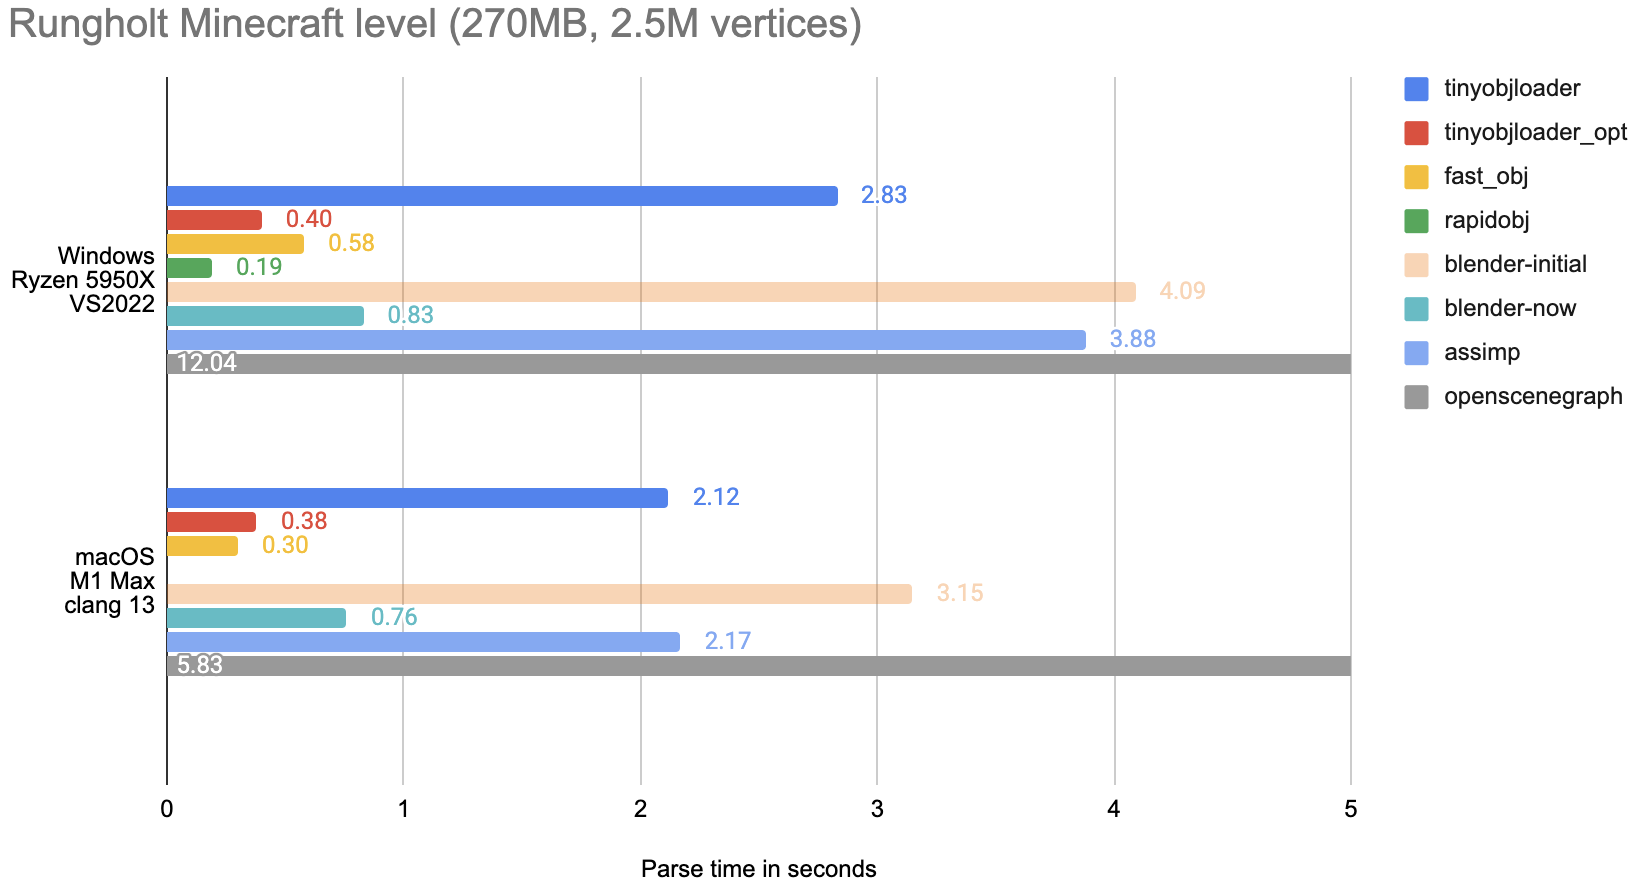
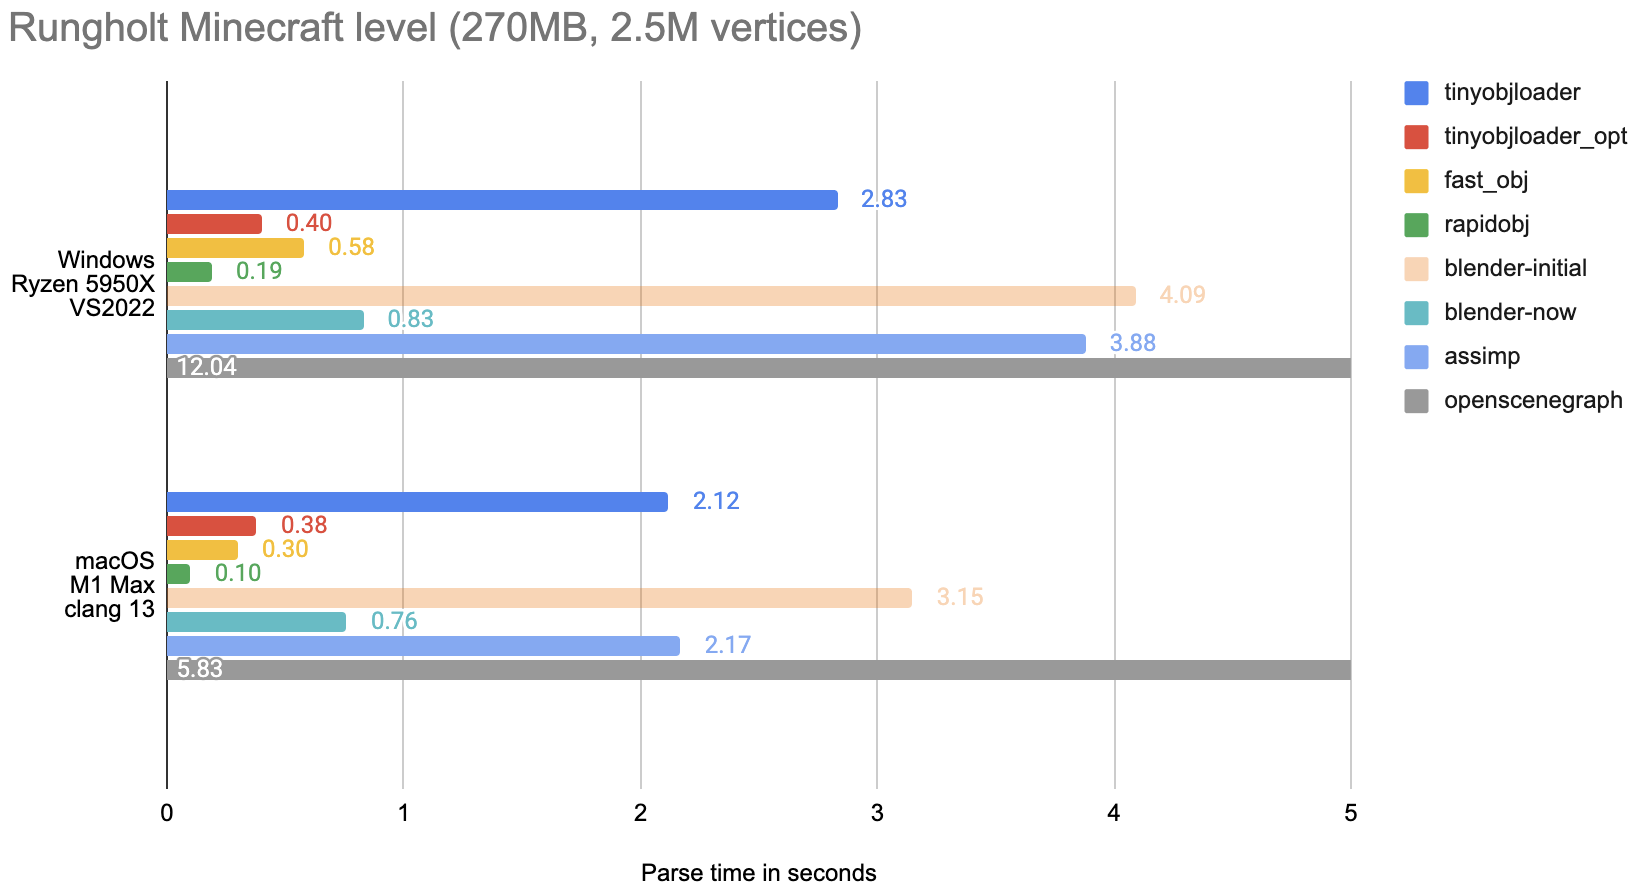
post update

diff --git a/content/blog/2022/05-obj-libraries.md b/content/blog/2022/05-obj-libraries.md
@@ -23,8 +23,8 @@ I'm going to focus on the ones written in C/C++ that I'm aware about. Here they 
 | ---           | ---    | ---     |
 | [tinyobjloader](https://github.com/tinyobjloader/tinyobjloader) | 2021 Dec 27 (8322e00a), v1.0.6+ | MIT |
 | [fast_obj](https://github.com/thisistherk/fast_obj) | 2022 Jan 29 (85778da5), v1.2+ | MIT |
-| [rapidobj](https://github.com/guybrush77/rapidobj) | 2021 Jun 29 (83225625), v0.1 | MIT |
-| [blender](https://github.com/blender/blender/tree/9757b4ef/source/blender/io/wavefront_obj/importer) | 2022 May 12 (9757b4ef), v3.3a | GPL v3 |
+| [rapidobj](https://github.com/guybrush77/rapidobj) | 2022 Jun 18 (0e545f1), v0.9 | MIT |
+| [blender](https://github.com/blender/blender/tree/6ad9d8e2/source/blender/io/wavefront_obj/importer) | 2022 Jun 19 (9757b4ef), v3.3a | GPL v3 |
 | [assimp](https://github.com/assimp/assimp) | 2022 May 10 (ff43768d), v5.2.3+ | BSD 3-clause |
 | [openscenegraph](https://github.com/openscenegraph/OpenSceneGraph) | 2022 Apr 7 (68340324), v3.6.5+ | LGPL-based |
 
@@ -41,8 +41,8 @@ Let's have a quick overview of the feature sets of all these libraries:
 | Base meshes              | ✓ | ✓ | ✓ | ✓ | ✓ | ✓ |
 | Base materials           | ✓ | ✓ | ✓ | ✓ | ✓ | ✓ |
 | [PBR](http://exocortex.com/blog/extending_wavefront_mtl_to_support_pbr) materials | ✓ |   | ✓ |   | ✓ |   |
-| Vertex colors ([xyzrgb](http://paulbourke.net/dataformats/obj/colour.html)) | ✓ |   |   |   | ✓ | ✓ |
-| Vertex colors ([MRGB](http://paulbourke.net/dataformats/obj/colour.html))   |   |   |   |   |   | ✓ |
+| Vertex colors ([xyzrgb](http://paulbourke.net/dataformats/obj/colour.html)) | ✓ |   |   | ✓ | ✓ | ✓ |
+| Vertex colors ([MRGB](http://paulbourke.net/dataformats/obj/colour.html))   |   |   |   | ✓ |   | ✓ |
 | Lines (`l`)              | ✓ |   | ✓ | ✓ | ✓ | ✓ |
 | Points (`p`)             | ✓ |   |   |   | ✓ | ✓ |
 | Curves (`curv`)          |   |   |   | ✓* |   |   |
@@ -52,7 +52,7 @@ Let's have a quick overview of the feature sets of all these libraries:
 | Subdiv crease tags (`t`) | ✓ |   |   |   |   |   |
 | Line continuations (`\`) |   |   |   | ✓ | ✓ | ✓ |
 | Platform: Windows        | ✓ | ✓ | ✓ | ✓ | ✓ | ✓ |
-| Platform: macOS          | ✓ | ✓ |   | ✓ | ✓ | ✓ |
+| Platform: macOS          | ✓ | ✓ | ✓ | ✓ | ✓ | ✓ |
 | Platform: Linux          | ✓ | ✓ | ✓ | ✓ | ✓ | ✓ |
 | Language / Compiler      | C++03 | C89 | C++17 | C++17 | C++??* | C++??* |
 
@@ -104,9 +104,8 @@ performance difference between them. For something as simple as an OBJ file form
 Random observations and conclusions:
 
 * `rapidobj` is the performance winner here. On the technical level, it's the most "advanced" out of all of them -- it uses asynchronous
-  file reading and multi-threaded parsing. However, it literally only has the async I/O parts implemented for Windows and Linux,
-  anywhere else it simply does not compile. So if you need, for example, Mac support then it's not an option for you, without implementing
-  the missing bits. It also requires a fairly recent C++ compiler (C++17) support.
+  file reading and multi-threaded parsing. *~~However, it does not support macOS~~ (update: rapidobj 0.9 added macOS support!)*.
+  It also requires a fairly recent C++ compiler (C++17) support.
 * `fast_obj` is the fastest single-threaded parser. It also compiles pretty much anywhere (any C compiler would do), but also
   has the least amount of features. However I could make it crash on syntax it does not support (`\` line continuation);
   it might be the least robust of the parsers.
@@ -175,7 +174,6 @@ Blender. For reference, this "other work" time breakdown is roughly:
 
 
 
-*...anyway, that's it! Personally I'm quite impressed by [rapidobj](https://github.com/guybrush77/rapidobj). Someone please add Mac
-support for it :)*
+*...anyway, that's it! Personally I'm quite impressed by [rapidobj](https://github.com/guybrush77/rapidobj).*
 
 
